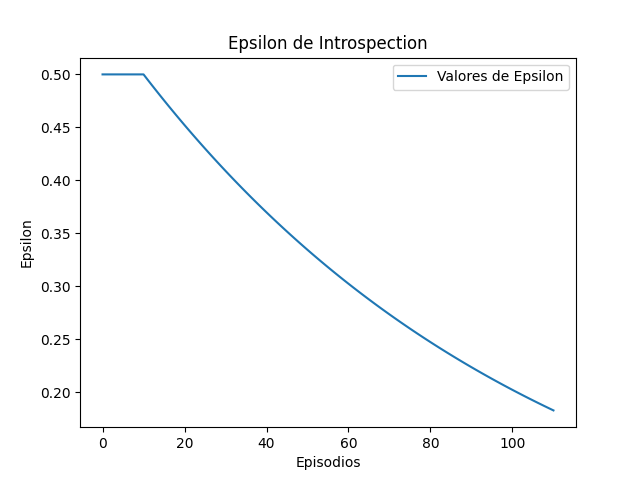
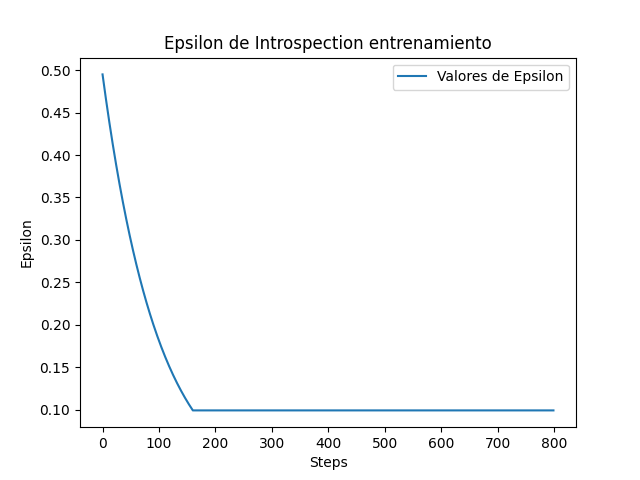
Feat/Se grafican valores Q, epsilon y rewards

diff --git a/runGame.py b/runGame.py
@@ -12,6 +12,7 @@ np.warnings.filterwarnings('ignore', category=np.VisibleDeprecationWarning)
 Qvalues = np.zeros([1, 200])
 rew = []
 epsilon = []
+qvaluesAux = []
 gamma = 0.9
 
 q_values_file = open("qValues.txt", "w")
@@ -19,7 +20,7 @@ q_values_file = open("qValues.txt", "w")
 """Game parameters"""
 gameType = ChefsHatEnv.GAMETYPE["MATCHES"]
 
-gameStopCriteria = 10
+gameStopCriteria = 5
 rewardFunction = RewardOnlyWinning.RewardOnlyWinning()
 
 """Player Parameters"""
@@ -61,20 +62,20 @@ for a in range(episodes):
         info = {"validAction": False}
 
         while not info["validAction"]:
+
             nextobs, reward, isMatchOver, info = env.step(action)
 
-            agent1.actionUpdate(observations, nextobs, action, reward, info)
-            epsilon.append(agent1.epsilon)
-            rew.append(reward)
-            Qvalues = agent1.matchUpdate(info)
-
-            #print(len(Qvalues))
-            # print(epsilon)
-            # agente = agent1.buildSimpleModel().summary()
+        agent1.actionUpdate(observations, nextobs, action, reward, info)
+        rew.append(reward)
 
         if isMatchOver:
-            '''for p in playersAgents:
-                p.matchUpdate(info)'''
+
+            for p in playersAgents:
+                q = agent1.matchUpdate(info)
+                b = np.max(q)
+                qvaluesAux.append(b)
+                epsilon.append(agent1.epsilon)
+
 
             print("-------------")
             print("Match:" + str(info["matches"]))
@@ -84,30 +85,29 @@ for a in range(episodes):
 
 #agent1.pSuccess(Qvalues, rew)
 
-for row in Qvalues:
+for row in qvaluesAux:
     np.savetxt(q_values_file, row)
 q_values_file.close()
 
-plt.plot(Qvalues)
-plt.title("Q-Values de Introspection")
-plt.xlabel('Episodios')
+plt.plot(qvaluesAux, Label='Q-values')
+plt.title("Q-Values Introspection entrenamiento")
+plt.xlabel('Steps')
 plt.ylabel('Q-Values')
-plt.xlim([0, 10])
 plt.legend()
 plt.savefig("q_values.png")
 plt.close()
 
 plt.plot(epsilon, label="Valores de Epsilon")
-plt.title("Epsilon de Introspection")
-plt.xlabel('Episodios')
+plt.title("Epsilon de Introspection entrenamiento")
+plt.xlabel('Steps')
 plt.ylabel('Epsilon')
 plt.legend()
 plt.savefig("valores_epsilon.png")
 plt.close()
 
 plt.plot(rew, label="Recompensas ")
-plt.title("Recompensas de Introspection")
-plt.xlabel('Episodios')
+plt.title("Recompensas de Introspection entrenamiento")
+plt.xlabel('Steps')
 plt.ylabel('Rewards')
 plt.legend()
 plt.ylim([-0.5, 2])
@@ -119,7 +119,7 @@ env.startExperiment(rewardFunctions=rewards, gameType=gameType, stopCriteria=gam
                     logDirectory=saveDirectory, verbose=verbose, saveDataset=True, saveLog=True)
 
 """Start Environment"""
-for a in range(episodes):
+'''for a in range(episodes):
 
     observations = env.reset()
 
@@ -139,4 +139,4 @@ for a in range(episodes):
             print("Match:" + str(info["matches"]))
             print("Score:" + str(info["score"]))
             print("Performance:" + str(info["performanceScore"]))
-            print("-------------")
+            print("-------------")'''
